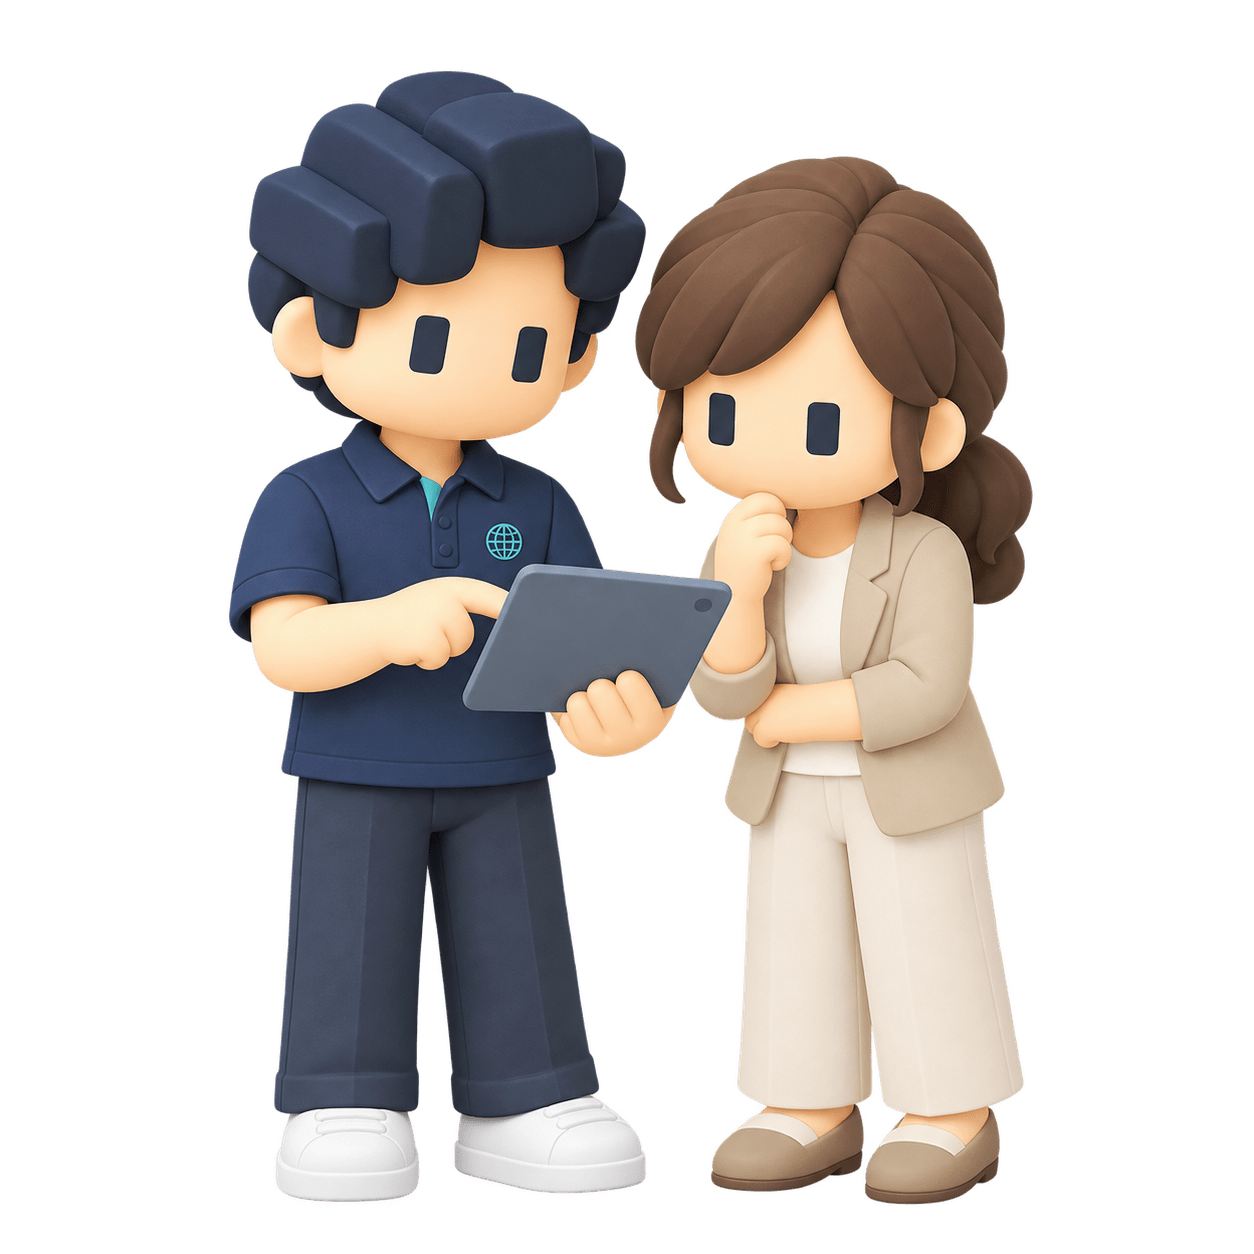
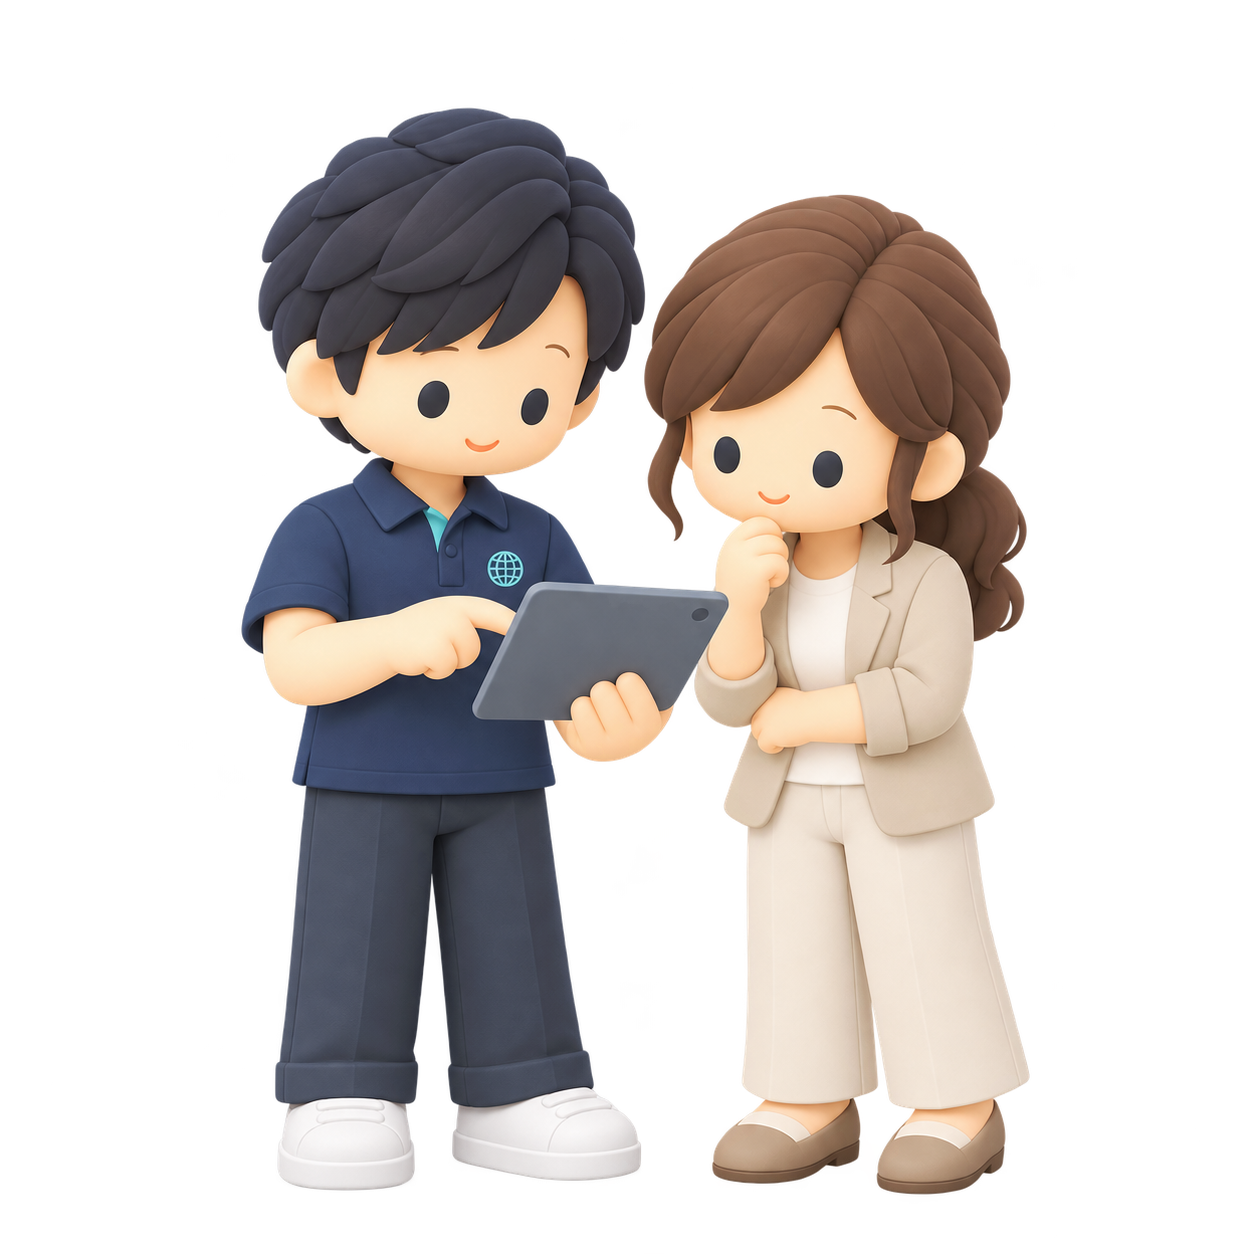
Add homepage content

diff --git a/app/not-found.tsx b/app/not-found.tsx
@@ -1,0 +1,89 @@
+import Link from "next/link";
+
+export default function NotFound() {
+  return (
+    <main className="relative isolate min-h-[760px] overflow-hidden bg-[#F7FAF9] px-5 pb-24 pt-32 md:flex md:min-h-screen md:items-center md:px-8 md:pb-28 md:pt-28">
+      <div
+        className="absolute inset-0 -z-20 opacity-70"
+        aria-hidden="true"
+        style={{
+          backgroundImage:
+            "linear-gradient(rgba(38,70,83,.035) 1px, transparent 1px), linear-gradient(90deg, rgba(38,70,83,.035) 1px, transparent 1px)",
+          backgroundSize: "48px 48px",
+        }}
+      />
+      <div className="absolute -left-28 top-24 -z-10 h-72 w-72 rounded-full bg-[#A8DADC]/25 blur-3xl" aria-hidden="true" />
+      <div className="absolute -right-24 bottom-10 -z-10 h-96 w-96 rounded-full bg-[#2A9D8F]/10 blur-3xl" aria-hidden="true" />
+
+      <div className="mx-auto grid w-full max-w-6xl items-center gap-14 md:grid-cols-[1fr_0.9fr] md:gap-8 lg:gap-16">
+        <section className="text-center md:text-left">
+          <div className="mb-6 inline-flex items-center gap-3 rounded-full border border-[#2A9D8F]/15 bg-white/80 px-4 py-2 shadow-sm backdrop-blur-sm">
+            <span className="h-2 w-2 rounded-full bg-[#2A9D8F]" />
+            <span className="text-[11px] font-bold tracking-[0.22em] text-[#264653]">PAGE NOT FOUND</span>
+          </div>
+
+          <p className="mb-2 text-[clamp(5.5rem,18vw,10rem)] font-black leading-none tracking-[-0.08em] text-[#264653]">
+            4<span className="text-[#2A9D8F]">0</span>4
+          </p>
+          <h1 className="mb-5 text-2xl font-bold tracking-wide text-[#264653] md:text-3xl">
+            お探しのページが見つかりませんでした
+          </h1>
+          <p className="mx-auto max-w-lg text-sm font-medium leading-8 text-gray-500 md:mx-0 md:text-base">
+            ページが移動または削除されたか、URLが間違っている可能性があります。
+            <br className="hidden sm:block" />
+            ここから、もう一度目的のページを探してみてください。
+          </p>
+
+          <div className="mt-9 flex flex-col justify-center gap-3 sm:flex-row md:justify-start">
+            <Link
+              href="/"
+              className="group inline-flex min-h-14 items-center justify-center gap-3 rounded-full bg-[#264653] px-8 text-sm font-bold text-white shadow-[0_12px_30px_rgba(38,70,83,0.18)] transition-all duration-300 hover:-translate-y-1 hover:bg-[#2A9D8F] hover:shadow-[0_16px_35px_rgba(42,157,143,0.25)]"
+            >
+              <i className="fas fa-home text-xs" aria-hidden="true" />
+              トップページへ
+              <i className="fas fa-arrow-right text-xs transition-transform group-hover:translate-x-1" aria-hidden="true" />
+            </Link>
+            <Link
+              href="/service"
+              className="inline-flex min-h-14 items-center justify-center gap-2 rounded-full border border-[#264653]/15 bg-white px-8 text-sm font-bold text-[#264653] shadow-sm transition-all duration-300 hover:-translate-y-1 hover:border-[#2A9D8F]/40 hover:text-[#2A9D8F] hover:shadow-md"
+            >
+              サービスを見る
+            </Link>
+          </div>
+
+          <p className="mt-8 text-xs text-gray-400">
+            お困りの場合は
+            <Link href="/contact" className="ml-1 font-bold text-[#2A9D8F] underline decoration-[#2A9D8F]/30 underline-offset-4 hover:decoration-[#2A9D8F]">
+              お問い合わせください
+            </Link>
+          </p>
+        </section>
+
+        <div className="relative mx-auto aspect-square w-full max-w-[410px]" aria-hidden="true">
+          <div className="absolute inset-[8%] rounded-full border border-dashed border-[#2A9D8F]/25 motion-safe:animate-[spin_28s_linear_infinite]" />
+          <div className="absolute inset-[18%] rounded-full bg-white/70 shadow-[0_30px_80px_rgba(38,70,83,0.12)] backdrop-blur-sm" />
+
+          <div className="absolute left-1/2 top-1/2 h-[34%] w-[34%] -translate-x-1/2 -translate-y-1/2 rotate-12 rounded-[28%] bg-gradient-to-br from-[#43B5A5] to-[#247D76] shadow-[0_24px_50px_rgba(42,157,143,0.28)]">
+            <span className="absolute left-[24%] top-[27%] h-2 w-2 rounded-full bg-white/90" />
+            <span className="absolute right-[24%] top-[27%] h-2 w-2 rounded-full bg-white/90" />
+            <span className="absolute bottom-[27%] left-1/2 h-3 w-8 -translate-x-1/2 rounded-b-full border-b-2 border-white/80" />
+          </div>
+
+          <div className="absolute left-[8%] top-[19%] flex h-16 w-16 -rotate-12 items-center justify-center rounded-2xl bg-[#F4A261] text-xl text-white shadow-lg motion-safe:animate-[bounce_3.5s_ease-in-out_infinite]">
+            <i className="fas fa-question" />
+          </div>
+          <div className="absolute right-[5%] top-[23%] flex h-20 w-20 rotate-12 items-center justify-center rounded-full bg-[#264653] text-2xl text-white shadow-xl motion-safe:animate-[bounce_4s_ease-in-out_infinite]">
+            <i className="fas fa-location-dot" />
+          </div>
+          <div className="absolute bottom-[10%] left-[18%] flex h-14 w-14 rotate-6 items-center justify-center rounded-xl border border-[#2A9D8F]/15 bg-white text-[#2A9D8F] shadow-lg motion-safe:animate-[bounce_4.5s_ease-in-out_infinite]">
+            <i className="fas fa-arrow-turn-up rotate-90" />
+          </div>
+
+          <span className="absolute left-[2%] top-1/2 h-3 w-3 rounded-full bg-[#E9C46A]" />
+          <span className="absolute bottom-[18%] right-[12%] h-5 w-5 rounded-md bg-[#E76F51]/70" />
+          <span className="absolute right-[25%] top-[5%] h-2.5 w-2.5 rounded-full bg-[#2A9D8F]" />
+        </div>
+      </div>
+    </main>
+  );
+}
